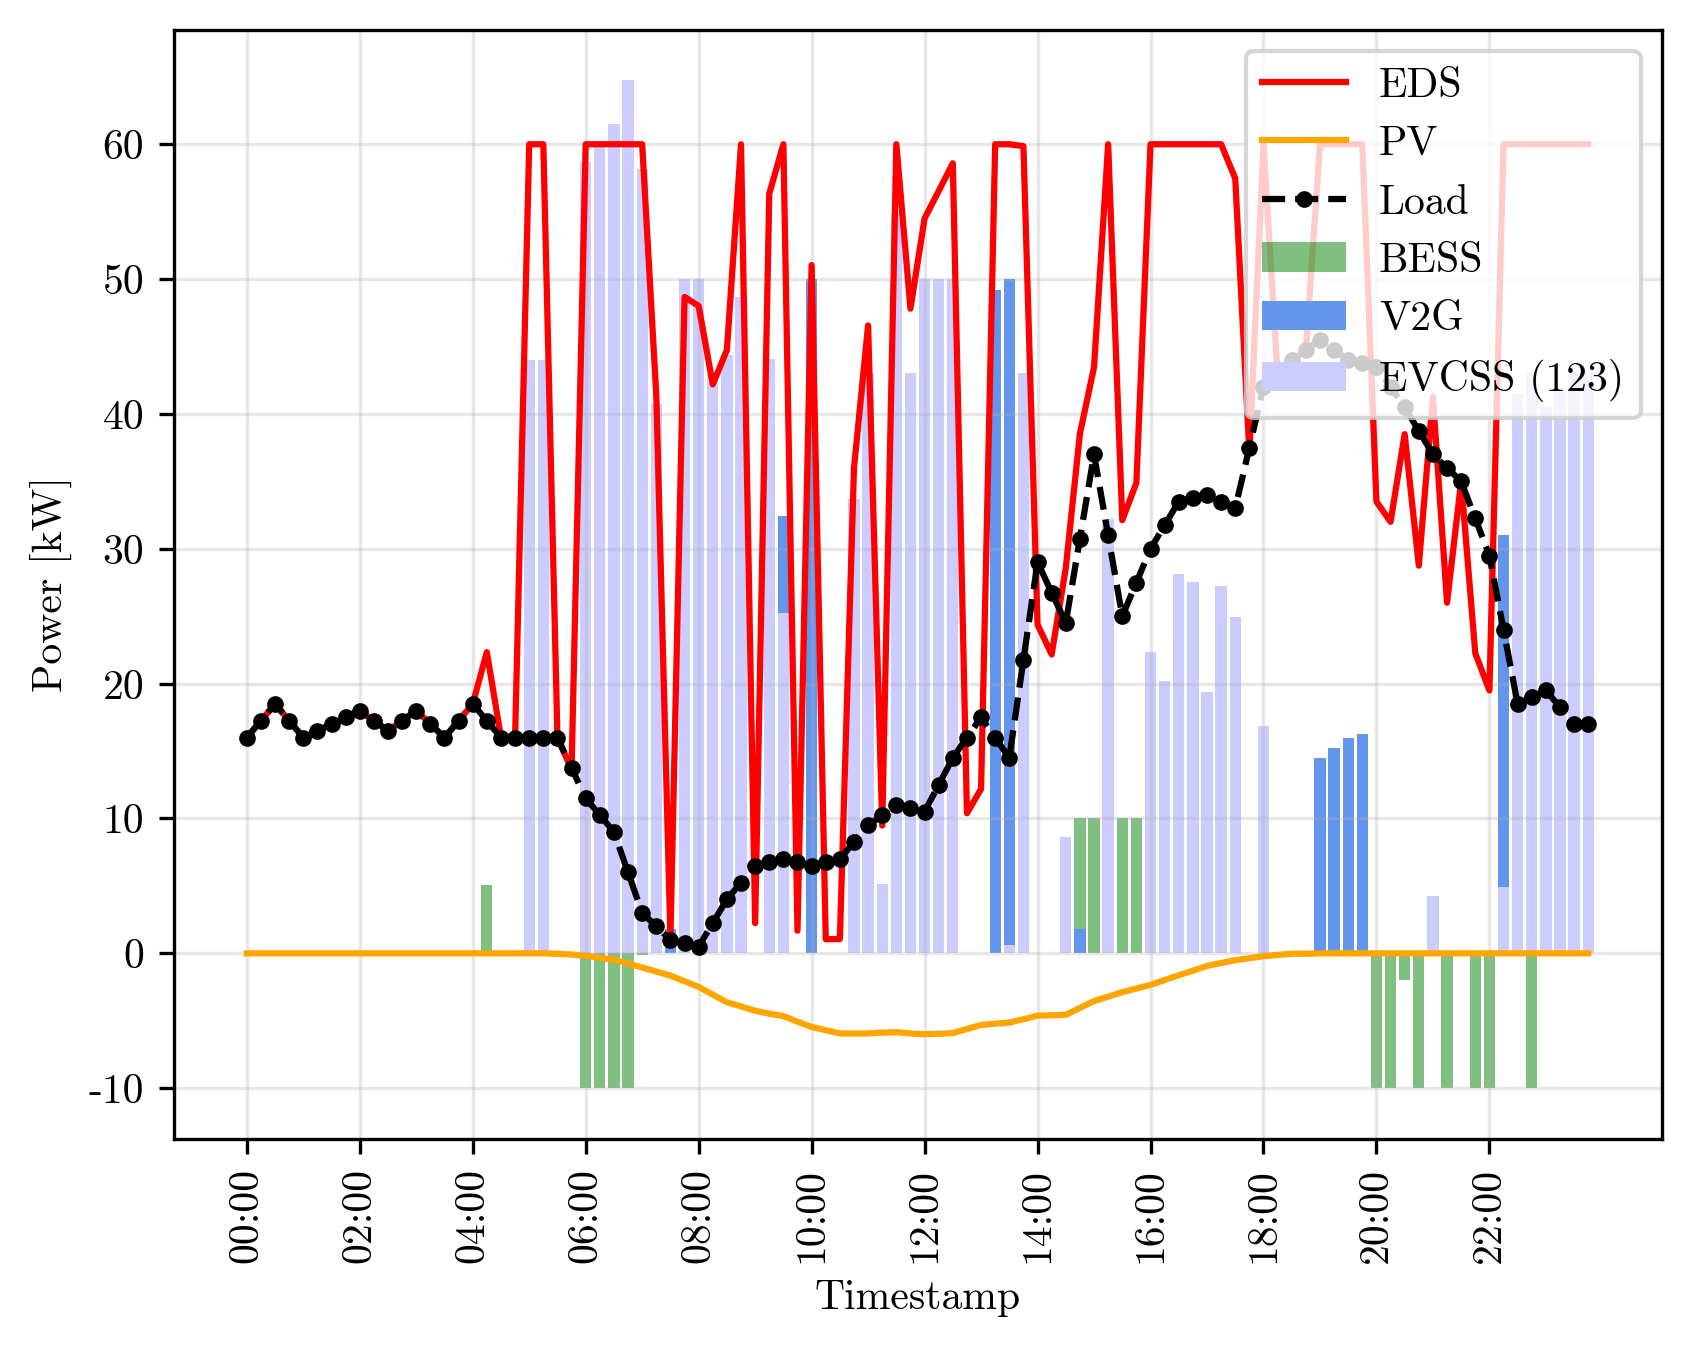
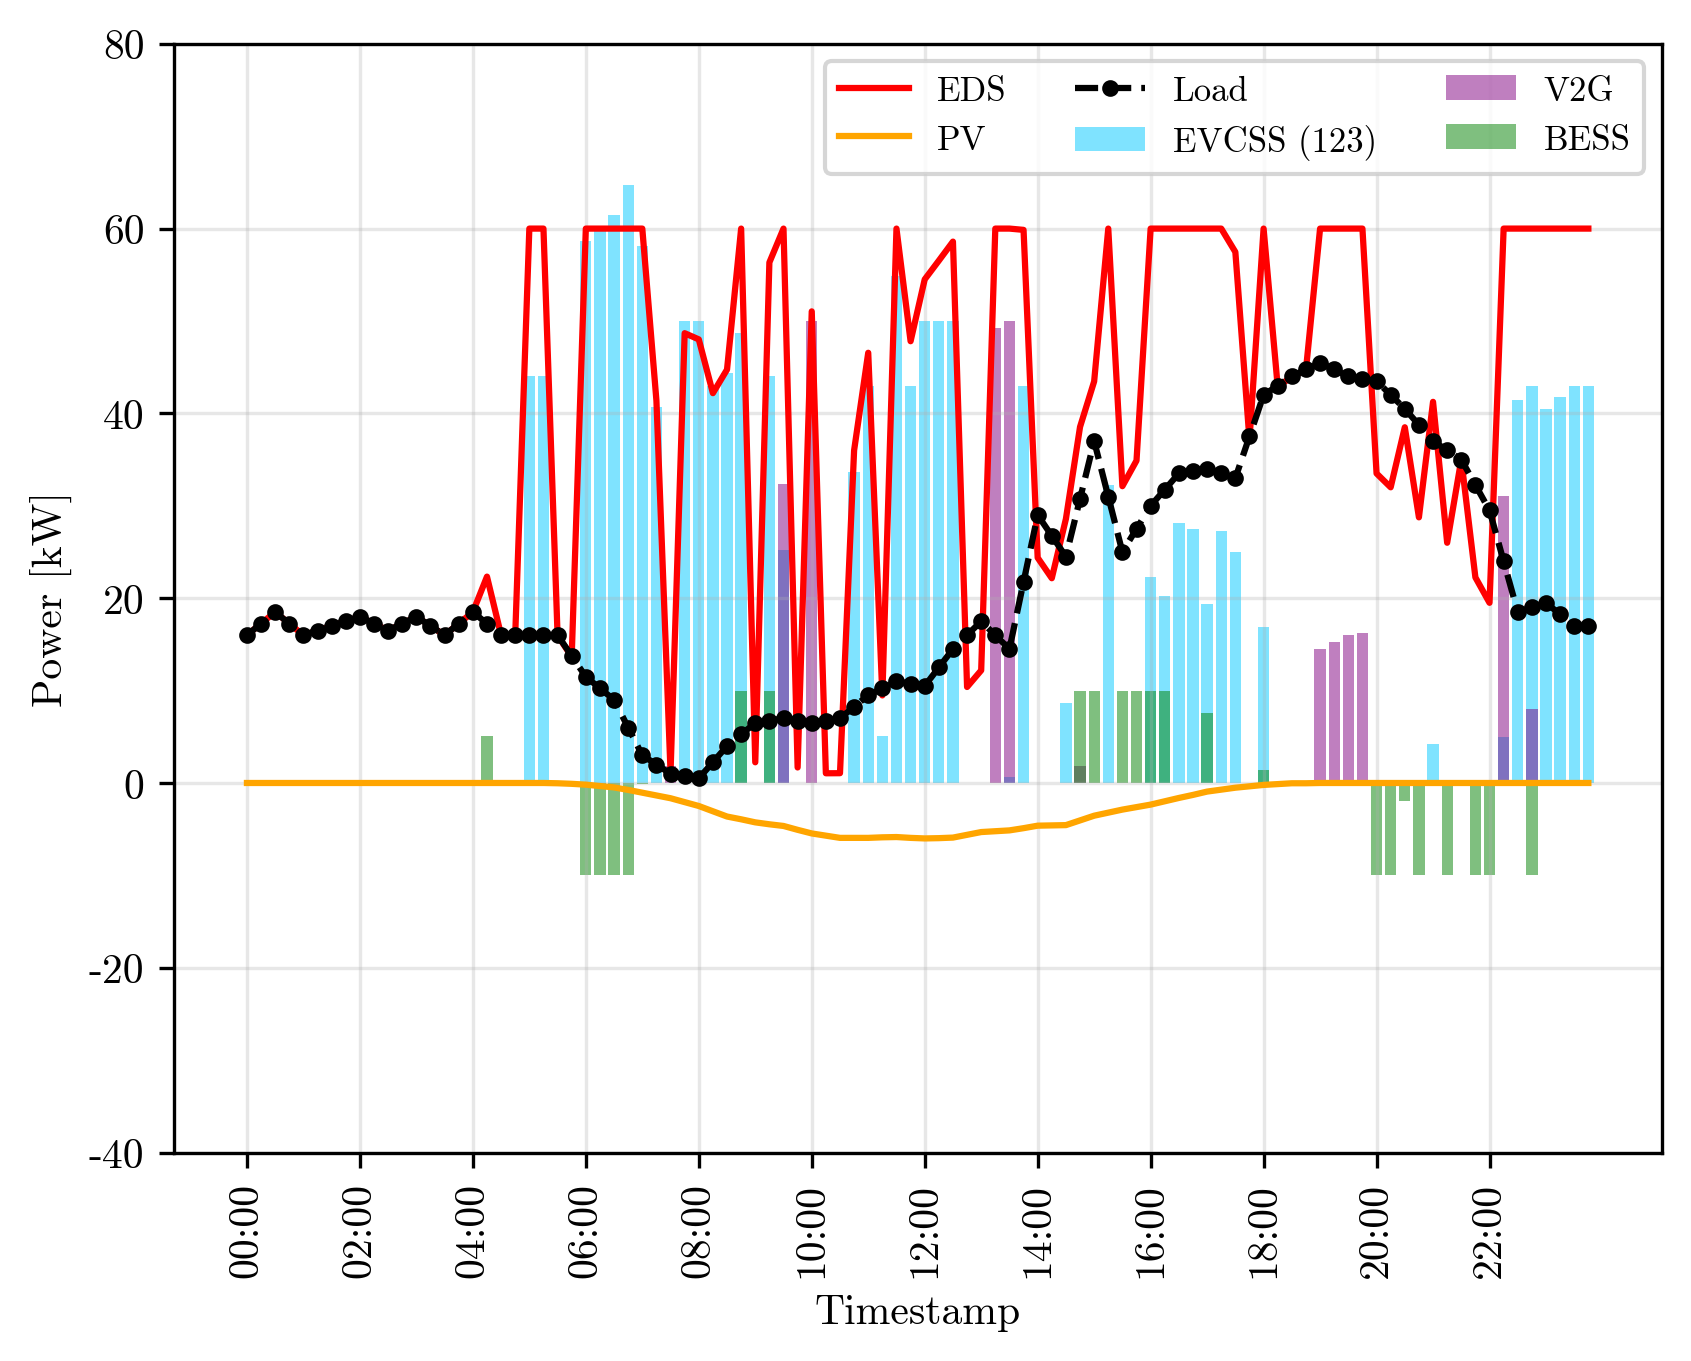
update the model to add a new EVCS with one connector and update plot functions

diff --git a/main-final.py b/main-final.py
@@ -273,60 +273,22 @@ plt.rcParams['axes.unicode_minus'] = False
 
 for s in Ωs:
 
-    # v2g = []
-    # normal = []
-    # for t in Ωt:
-    #     for evcs, connector in Ωc:
-    #         aux = 0
-    #         for e in Ωe:
-    #             aux += pyo.value(model.Pαc[t, s, e, evcs, connector] - model.Pαd[t, s, e, evcs, connector])
-    #         if evcs == "EVCS4":
-    #             v2g.append(aux)
-    #         else:
-    #             normal.append(aux)
-
-
     plt.figure()
     plt.plot(Ωt, [pyo.value(model.Peds[t, s]) for t in Ωt], label='EDS', color='red')
-    # plt.bar(Ωt, normal, label="EVCSs", color="blue")
-    # plt.bar(Ωt, v2g, label="EVCSs", color="purple")
-    plt.bar(Ωt, [pyo.value(model.Pbess_c[t, s]) - pyo.value(model.Pbess_d[t, s] ) for t in Ωt], label='BESS', color='green', alpha=0.5)
     plt.plot(Ωt, [-data['PV']['Pmax'] * fs[s]['pv'][t] for t in Ωt], label='PV', color='orange')
     plt.plot(Ωt, [data['load']['Pmax'] * fs[s]['load'][t] for t in Ωt], label='Load', color='black', marker='o', linestyle='dashed', markersize=3)
-    plt.bar(Ωt, [pyo.value(sum(model.Pαc[t, s, e, evcs, connector] - model.Pαd[t, s, e, evcs, connector] for e in Ωe for evcs, connector in Ωc if evcs == "EVCS4")) for t in Ωt], label='V2G', color='#6495ED')
-    plt.bar(Ωt, [pyo.value(sum(model.Pαc[t, s, e, evcs, connector] - model.Pαd[t, s, e, evcs, connector] for e in Ωe for evcs, connector in Ωc if evcs != "EVCS4")) for t in Ωt], label='EVCSS (123)', color='#CCCCFF')
-    # for evcs, connector in Ωc:
-    #     plt.plot(Ωt, [pyo.value(sum(model.Pαc[t, s, e, evcs, connector] - model.Pαd[t, s, e, evcs, connector] for e in Ωe)) for t in Ωt], label=f'{evcs}{connector}', linestyle='dashed')
+    plt.bar(Ωt, [pyo.value(sum(model.Pαc[t, s, e, evcs, connector] - model.Pαd[t, s, e, evcs, connector] for e in Ωe for evcs, connector in Ωc if evcs != "EVCS4")) for t in Ωt], label='EVCSS (123)', color='#00c8ff', alpha=0.5)
+    plt.bar(Ωt, [pyo.value(sum(model.Pαc[t, s, e, evcs, connector] - model.Pαd[t, s, e, evcs, connector] for e in Ωe for evcs, connector in Ωc if evcs == "EVCS4")) for t in Ωt], label='V2G', color='purple', alpha=0.5)
+    plt.bar(Ωt, [pyo.value(model.Pbess_c[t, s]) - pyo.value(model.Pbess_d[t, s] ) for t in Ωt], label='BESS', color='green', alpha=0.5)
     plt.ylabel('Power [kW]')
     plt.xlabel('Timestamp')
+    plt.ylim(-40, 80)
     plt.xticks(Ωt[::int(len(Ωt)/12)], rotation=90)  # Set x-axis ticks at every nth element of Ωt with rotation
     plt.grid(True, alpha=0.3)
-    plt.legend(loc='upper right')
+    plt.legend(loc='upper right', ncol = 3,fontsize='small')
     plt.savefig(f'Results/Operation_{s}.png', dpi=300, bbox_inches='tight')
+    plt.savefig(f'Results/Operation_{s}.pdf', dpi=300, bbox_inches='tight')
     plt.close('All')
-
-
-# for s in Ωs:
-#     plt.figure()
-#     plt.bar(Ωt, [data['PV']['Pmax'] * fs[s]['pv'][t] for t in Ωt], label='PV', color='orange')    
-#     plt.bar(Ωt, [pyo.value(model.Peds[t, s]) for t in Ωt], label='EDS',bottom= [data['PV']['Pmax'] * fs[s]['pv'][t] for t in Ωt], color='blue')
-#     plt.bar(Ωt, [pyo.value(model.Pbess_d[t, s] ) for t in Ωt], label='BESSdc',bottom= [pyo.value(model.Peds[t, s]) for t in Ωt], color='#5BE6CD')
-#     plt.bar(Ωt, [max(0, pyo.value(sum(sum((model.Pαd[t, s, e, c] - model.Pαc[t, s, e, c]) for e in Ωe) for c in Ωc))) for t in Ωt], label='EVCSsdc', bottom=[(pyo.value(model.Peds[t, s]) + pyo.value(model.Pbess_d[t, s])) for t in Ωt], color='#dd0063', alpha=0.5)
-#     plt.plot(Ωt, 
-#          [(data['load']['Pmax'] * fs[s]['load'][t] + pyo.value(model.Pbess_c[t, s])) + 
-#           max(0, pyo.value(sum(model.Pαc[t, s, e, c] - model.Pαd[t, s, e, c] for e in Ωe for c in Ωc))) 
-#           for t in Ωt], 
-#          label='EVCSsch', color='red', marker='o', markersize=2, linewidth=1.0)
-#     plt.plot(Ωt, [(data['load']['Pmax'] * fs[s]['load'][t] + pyo.value(model.Pbess_c[t, s])) for t in Ωt], label='BESSch', color='green', marker='o', markersize=2, linewidth=1.0)
-#     plt.plot(Ωt, [data['load']['Pmax'] * fs[s]['load'][t] for t in Ωt], label='Load', color='black', marker='o', markersize=2, linewidth=1.0)
-#     # for evcs, connector in Ωc:
-#     #     plt.plot(Ωt, [pyo.value(sum(model.Pαc[t, s, e, evcs, connector] - model.Pαd[t, s, e, evcs, connector] for e in Ωe)) for t in Ωt], label=f'{evcs}{connector}', linestyle='dashed')
-#     plt.ylabel('Power [kW]')
-#     plt.xlabel('Timestamp')
-#     plt.xticks(Ωt[::int(len(Ωt)/6)])  # Set x-axis ticks at every 4th element of Ωt
-#     plt.legend(loc='upper right')
-#     plt.savefig(f'Results/Operation_{s}.png', dpi=300, bbox_inches='tight')
-#     plt.close('All')
 
 
 for s in Ωs:
@@ -339,6 +301,7 @@ for s in Ωs:
     plt.xticks(Ωt[::int(len(Ωt)/6)])  # Set x-axis ticks at every 4th element of Ωt
     plt.legend(loc='upper right')
     plt.savefig(f'Results/SoC_{s}.png', dpi=300, bbox_inches='tight')
+    plt.savefig(f'Results/SoC_{s}.pdf', dpi=300, bbox_inches='tight')
     plt.close('All')
 
 for s in Ωs:
@@ -387,6 +350,7 @@ for s in Ωs:
     plt.xlabel('Timestamp')
     plt.ylabel('EVCSs')
     plt.savefig(f'Results/EVCS-s{s}.png', dpi=300, bbox_inches='tight')
+    plt.savefig(f'Results/EVCS-s{s}.pdf', dpi=300, bbox_inches='tight')    
     plt.close('All')
 
 
